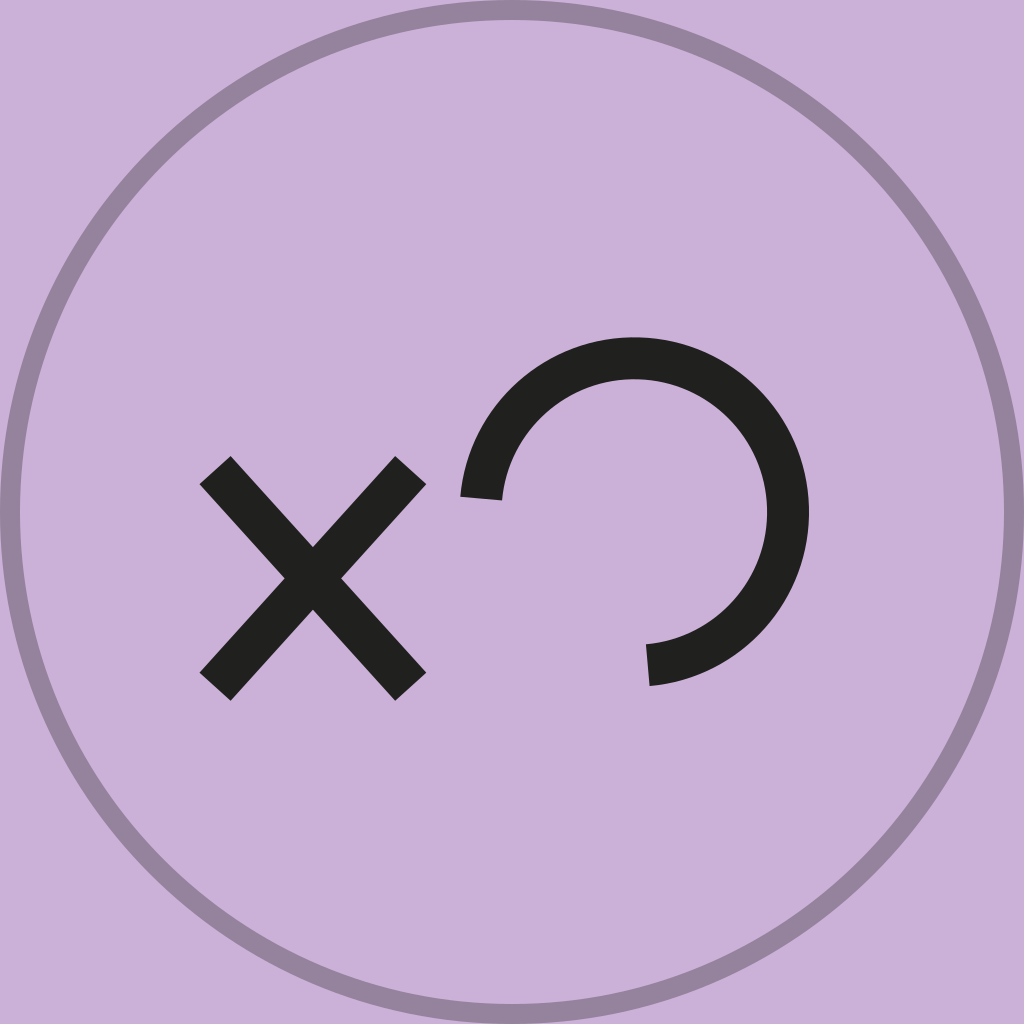
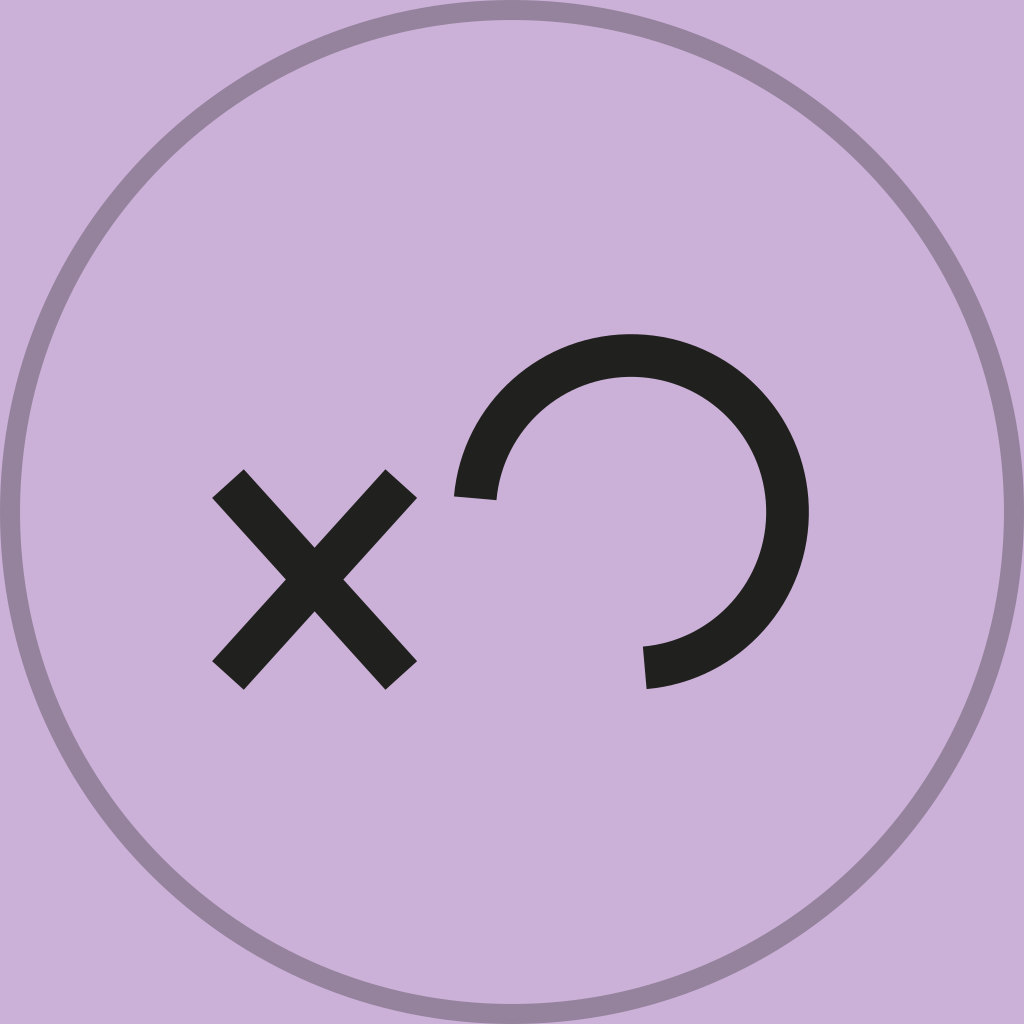
fix: sit the logotype's x on the baseline
The x's ink ran 64 → 134 against a band of 68 → 130. Its diagonals end in butt
caps cut perpendicular to the stroke, and on a diagonal those caps overhang the
endpoints by 4.02 vertically — so the x dipped below the baseline the C and O
sit on, and rose above x-height. Inverted from type practice, where pointed
forms sit on the line.

The endpoints are now inset along the diagonal by exactly that overhang, so the
ink's outer corners land on the lines: the x measures 68.00 → 130.00. The cuts
stay perpendicular to the stroke — the same cut as the C's terminals, so the
mark keeps one stroke language. Flat-cut (horizontal) terminals were the other
option and were rejected: at the same weight they widen the x by 11%, and the
x would no longer be cut the way the C is.

The x is now narrower, which opened x→C; the spacing gate caught it at 18%
uneven. GAP_XC 14 → 11, the only integer within tolerance at every clamp depth
(12 fails at depth 8, 10 at depth 16). Pairs balanced within 8.5%.

This DOES change the favicon and all eight Signal avatars, since the x is in
each. Regenerated; the ICO is valid, the pair audit still passes, and at true
size (16/32/48px) before and after are near-indistinguishable — legibility
holds. The avatars need re-uploading to Signal.

Side effects, all improvements: the x no longer cuts 4.45 units into the mark's
built-in clear space, and the construction diagram, which draws its rules from
the geometry, no longer shows the x poking through them.
[…]

diff --git a/lib/logo.ts b/lib/logo.ts
@@ -32,7 +32,7 @@ const X_WIDTH = 56;                 // lowercase x advance
 // pair measured 1.61× the optical space of x → C and the O read as detached —
 // the kerning feedback. At −10 the ratio is 1.01×. Re-measure before changing:
 // scripts/measure-logo-spacing.mjs.
-const GAP_XC = 14;                  // x → C  (flat diagonal to round)
+const GAP_XC = 11;                  // x → C  (diagonal to round; 11 is the only integer within tolerance at every depth)
 const GAP_CO = -10;                 // C → O  (round to open round: boxes overlap)
 
 const R = CAP / 2 - STROKE / 2;     // 44 — centreline radius of C and O
@@ -45,8 +45,8 @@ const C_APERTURE = 100;
 
 // Glyph origins along the baseline
 const X_LEFT = PAD;                                 // 30
-const C_CX = X_LEFT + X_WIDTH + GAP_XC + CAP / 2;   // 150
-const O_CX = C_CX + CAP / 2 + GAP_CO + CAP / 2;     // 240
+const C_CX = X_LEFT + X_WIDTH + GAP_XC + CAP / 2;   // 147
+const O_CX = C_CX + CAP / 2 + GAP_CO + CAP / 2;     // 237
 
 export const logoGeometry = {
   cap: CAP,
@@ -64,27 +64,37 @@ export const logoGeometry = {
   xWidth: X_WIDTH,
   cCx: C_CX,
   oCx: O_CX,
-  width: O_CX + CAP / 2 + PAD,   // 320
+  width: O_CX + CAP / 2 + PAD,   // 317
   height: BASELINE + PAD,        // 160
 } as const;
 
-// ── Ink bounds ───────────────────────────────────────────────────────
-// The actual extent of the ink, without the built-in clear space — for inline
-// use (nav, masthead) where the surrounding layout supplies the spacing.
+// ── The x's butt-cap overhang ────────────────────────────────────────
+// The x's diagonals end in butt caps cut perpendicular to the stroke — the
+// same cut as the C's terminals, so the whole mark shares one stroke language.
+// On a diagonal those caps overhang the endpoints: 4.45 sideways, 4.02 up and
+// down. Drawn to the band itself, the x's ink ran 64 → 134 against a band of
+// 68 → 130, dipping below the baseline the C and O sit on — inverted from type
+// practice, where pointed forms sit on the line.
 //
-// The x's diagonals end in butt caps cut perpendicular to the stroke, so their
-// corners overhang the path endpoints: 4.45 sideways and 4.02 vertically. That
-// overhang is why the x's feet sit below the baseline the C and O rest on.
+// So the endpoints are inset along the diagonal by exactly the vertical
+// overhang: the ink's outer corners now land on the baseline and x-height.
+// X_WIDTH and X_HEIGHT stay the design box; only where the stroke stops moves.
 
 const X_DIAGONAL = Math.hypot(X_WIDTH, X_HEIGHT);
 const X_CAP_DX = (STROKE / 2) * (X_HEIGHT / X_DIAGONAL);   // 4.45
 const X_CAP_DY = (STROKE / 2) * (X_WIDTH / X_DIAGONAL);    // 4.02
+const X_INSET_DY = X_CAP_DY;                               // pull each end in this far vertically
+const X_INSET_DX = X_INSET_DY * (X_WIDTH / X_HEIGHT);      // 3.63 — the same move, along the diagonal
+
+// ── Ink bounds ───────────────────────────────────────────────────────
+// The actual extent of the ink, without the built-in clear space — for inline
+// use (nav, masthead) where the surrounding layout supplies the spacing.
 
 export const inkBounds = {
-  left: X_LEFT - X_CAP_DX,
+  left: X_LEFT + X_INSET_DX - X_CAP_DX,                    // 29.18
   right: O_CX + CAP / 2,
-  top: Math.min(CAP_TOP, BASELINE - X_HEIGHT - X_CAP_DY),
-  bottom: BASELINE + X_CAP_DY,
+  top: CAP_TOP,                                            // the x now stops at x-height
+  bottom: BASELINE,                                        // …and at the baseline
 } as const;
 
 // ── Path construction ────────────────────────────────────────────────
@@ -125,13 +135,19 @@ export function oPath(): string {
   return `${top} ${bottom}`;
 }
 
-/** The lowercase x: two crossing strokes, x-height tall. */
+/**
+ * The lowercase x: two crossing strokes whose INK is exactly x-height tall and
+ * sits on the baseline. Endpoints are inset so the perpendicular butt caps land
+ * on the lines rather than overshooting them.
+ */
 export function xPaths(): [string, string] {
-  const top = BASELINE - X_HEIGHT;
-  const right = X_LEFT + X_WIDTH;
+  const top = round(BASELINE - X_HEIGHT + X_INSET_DY);
+  const bottom = round(BASELINE - X_INSET_DY);
+  const left = round(X_LEFT + X_INSET_DX);
+  const right = round(X_LEFT + X_WIDTH - X_INSET_DX);
   return [
-    `M ${X_LEFT} ${top} L ${right} ${BASELINE}`,
-    `M ${right} ${top} L ${X_LEFT} ${BASELINE}`,
+    `M ${left} ${top} L ${right} ${bottom}`,
+    `M ${right} ${top} L ${left} ${bottom}`,
   ];
 }
 
@@ -187,7 +203,7 @@ const DESC_SPACE = 44;             // extra viewBox height when present
 const MONO_ADVANCE = 0.6;          // DM Mono advance width, in em
 
 /** Horizontal span of the glyphs, PAD to PAD. */
-const MARK_SPAN = O_CX + CAP / 2 - PAD;   // 260
+const MARK_SPAN = O_CX + CAP / 2 - PAD;   // 257
 
 /**
  * Letter-spacing that makes `descriptor` fill MARK_SPAN at DESC_SIZE.

diff --git a/app/(system)/logo/page.tsx b/app/(system)/logo/page.tsx
@@ -150,9 +150,9 @@ export default function LogoPage() {
             Clear space
           </h2>
           <p className="font-body text-[24px] text-xco-ink leading-[26px] max-w-2xl">
-            Clear space equals the x-height on every side, and it is already inside the
-            file&apos;s viewBox. Place the mark flush and the spacing is correct — do not add
-            your own padding on top.
+            Clear space is {g.pad} units on every side — {Math.round((g.pad / g.cap) * 100)}% of
+            the cap height — and it is already inside the file&apos;s viewBox. Place the mark
+            flush and the spacing is correct — do not add your own padding on top.
           </p>
         </div>
 
